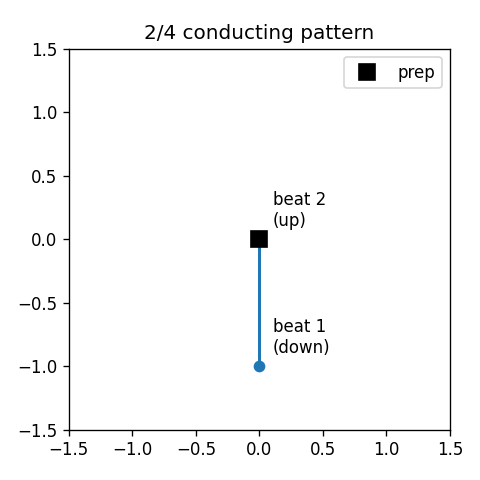
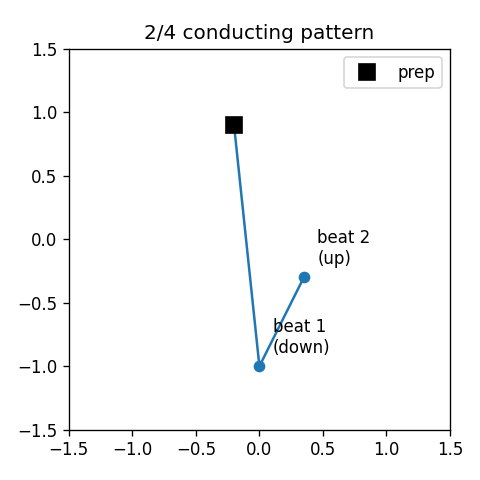
Correct 2/4 canonical reference: J-hook, not a straight vertical bounce
User supplied an actual conducting-pedagogy reference diagram: prep starts
up-left, sweeps down to beat 1 (the lowest point -- downbeat is lower than
upbeat), rebounds up-and-right to beat 2 (a distinct point, not back at
the prep position), continuing up toward the next measure's prep. The
previous 2/4 reference was a straight vertical down-then-up bounce
returning exactly to the prep position -- both the shape and beat 2's
position were wrong.

Re-scored the earlier real position-tracking capture (2026-07-29,
conduct nothing -- webcam session) against the corrected reference: mean
shape_distance improved 0.598 -> 0.514. Real but partial improvement --
the bigger remaining factor is almost certainly the mirror-flip bug fixed
in the same session (that capture predates it), not the reference shape
itself. Needs a fresh take with both fixes in place to actually evaluate.

Claude-Session: https://claude.ai/code/session_011TvPdBBrFBxmo7KzgvCSPh

diff --git a/src/conducting_patterns.py b/src/conducting_patterns.py
@@ -34,12 +34,19 @@ _STROKE_SEQUENCES = {
 }
 
 # Schematic keyframes per signature: [prep, beat1, beat2, ...], matching
-# standard conducting-pedagogy diagrams (a shallow "V"/bounce for 2/4, a
-# triangle for 3/4, a "checkmark" for 4/4 -- beats 2 and 3 both stay below
-# the prep line and offset from each other so the path never retraces
-# itself). x-right, y-up, conductor's own perspective.
+# standard conducting-pedagogy diagrams (a "J"/hook for 2/4, a triangle for
+# 3/4, a "checkmark" for 4/4 -- beats 2/3 stay below the prep line and
+# offset from each other so the path never retraces itself). x-right,
+# y-up, conductor's own perspective.
+#
+# 2/4 corrected from a straight vertical bounce (2026-07-29, user-supplied
+# reference diagram): prep starts up-left, sweeps down to beat 1 (the
+# lowest point -- the downbeat is lower than the upbeat), rebounds
+# up-and-right to beat 2, continuing up toward the next measure's prep.
+# Not a straight line in either direction, and beat 2 is NOT back at the
+# prep position -- it's a distinct rebound point partway up.
 _RAW_POINTS = {
-    2: [(0.0, 0.0), (0.0, -1.0), (0.0, 0.0)],
+    2: [(-0.2, 0.9), (0.0, -1.0), (0.35, -0.3)],
     3: [(0.0, 0.0), (-0.3, -1.0), (0.8, -0.3), (0.0, 0.0)],
     4: [(0.0, 0.0), (0.0, -1.0), (-0.7, -0.4), (0.7, -0.4), (0.0, 0.0)],
 }
